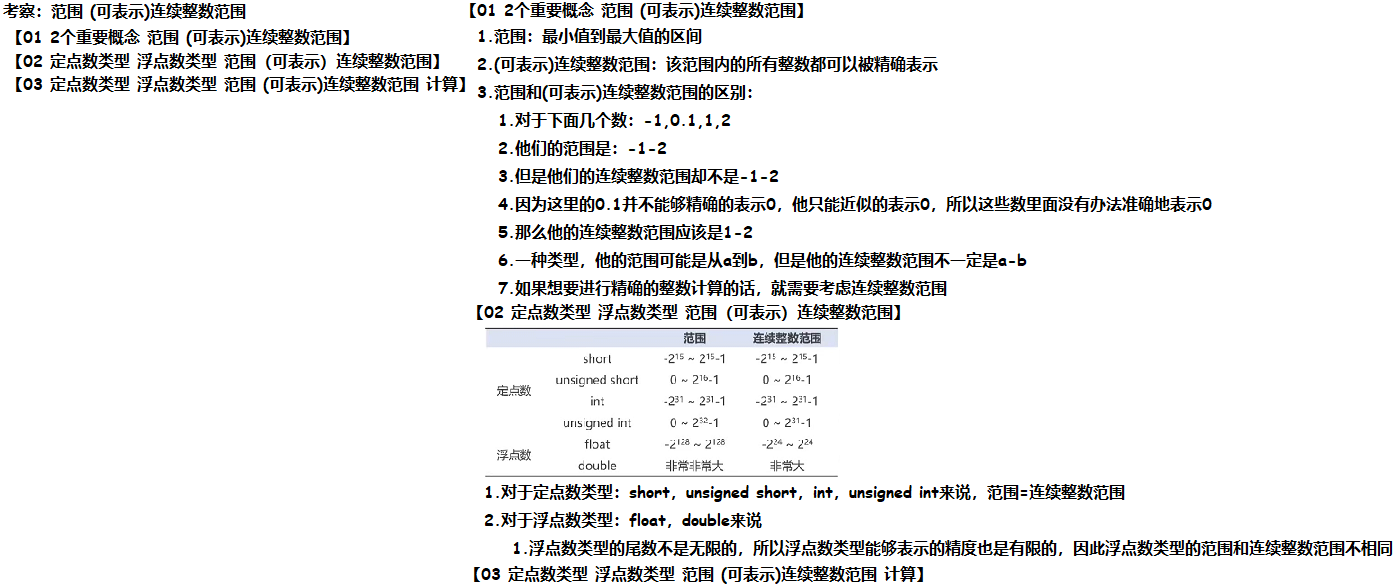
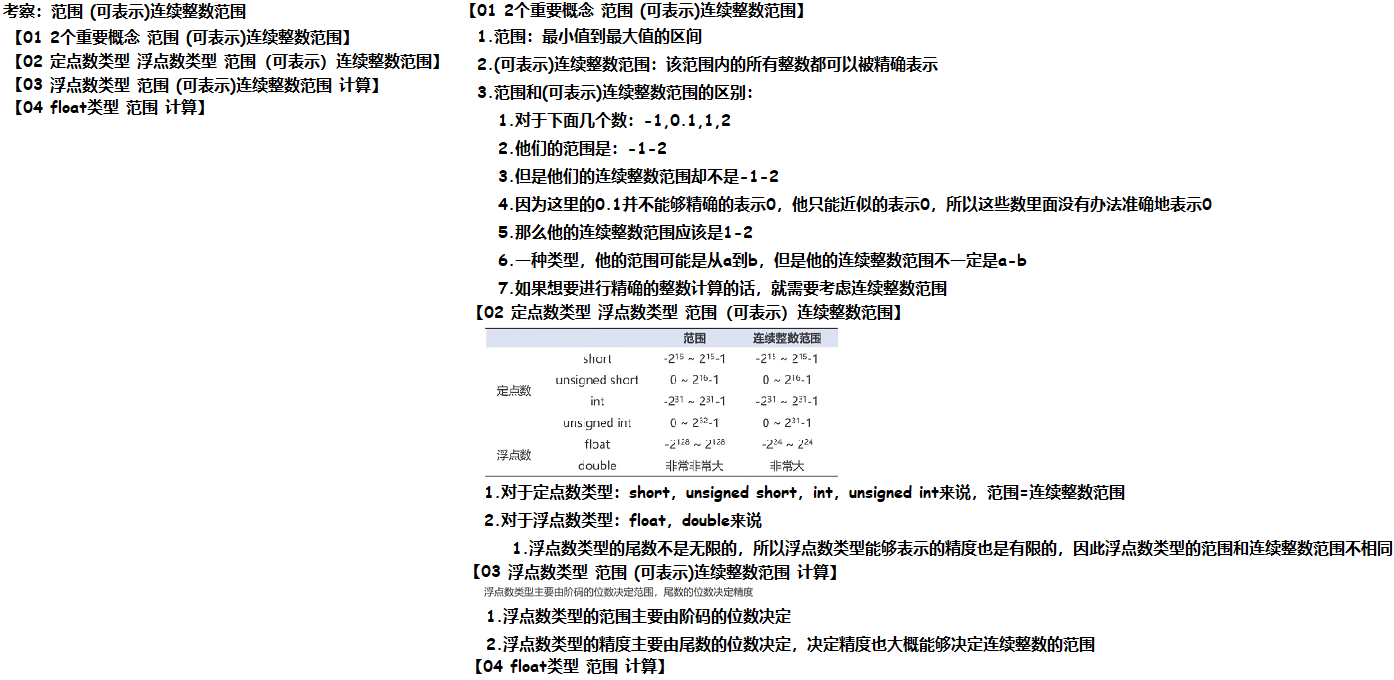
250309

Changed region(s): [[0.0, 0.0, 1.0, 1.0]]

diff --git a/01 初试/01 408真题/01 24408/02 试卷分析.md b/01 初试/01 408真题/01 24408/02 试卷分析.md
@@ -151,7 +151,8 @@
     - [x] 01 知识点
       - [x] 01 2个重要概念 范围 (可表示)连续整数范围
       - [x] 02 定点数类型 浮点数类型 范围（可表示）连续整数范围
-      - [ ] 03 定点数类型 浮点数类型 范围（可表示）连续整数范围 计算
+      - [x] 03 浮点数类型 范围 (可表示)连续整数范围 计算
+      - [ ] 04 float类型 范围 计算
       
     - [ ] 02 刷题
 

diff --git a/01 初试/01 408真题/01 24408/01 刷题/01 单项选择题 28' = 22‘ + 6’/02 组成原理 6’ = 2‘ × 3/03 单选 14 2‘ 范围 (可表示)连续整数范围/01 250309/02 Doc.md b/01 初试/01 408真题/01 24408/01 刷题/01 单项选择题 28' = 22‘ + 6’/02 组成原理 6’ = 2‘ × 3/03 单选 14 2‘ 范围 (可表示)连续整数范围/01 250309/02 Doc.md
@@ -1,8 +1,6 @@
 # 01 知识点
 
-<img src="https://cvp.oss-cn-shanghai.aliyuncs.com/202503091540419.png" alt="image-20250309154013286" style="zoom:50%;" />
-
-
+<img src="https://cvp.oss-cn-shanghai.aliyuncs.com/202503091805598.png" alt="image-20250309180538392" style="zoom:50%;" />
 
 
 
